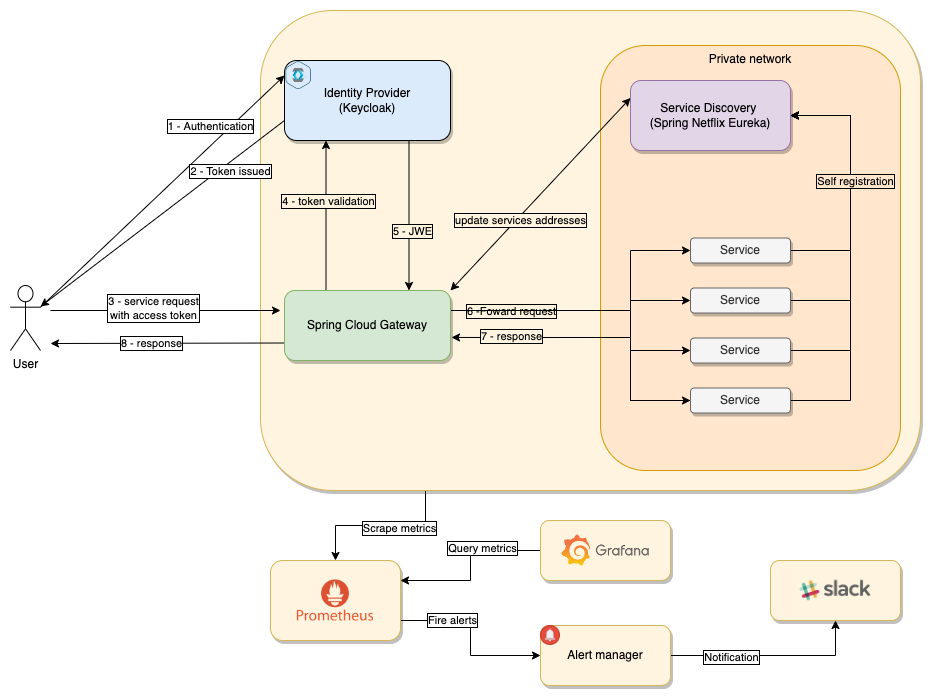
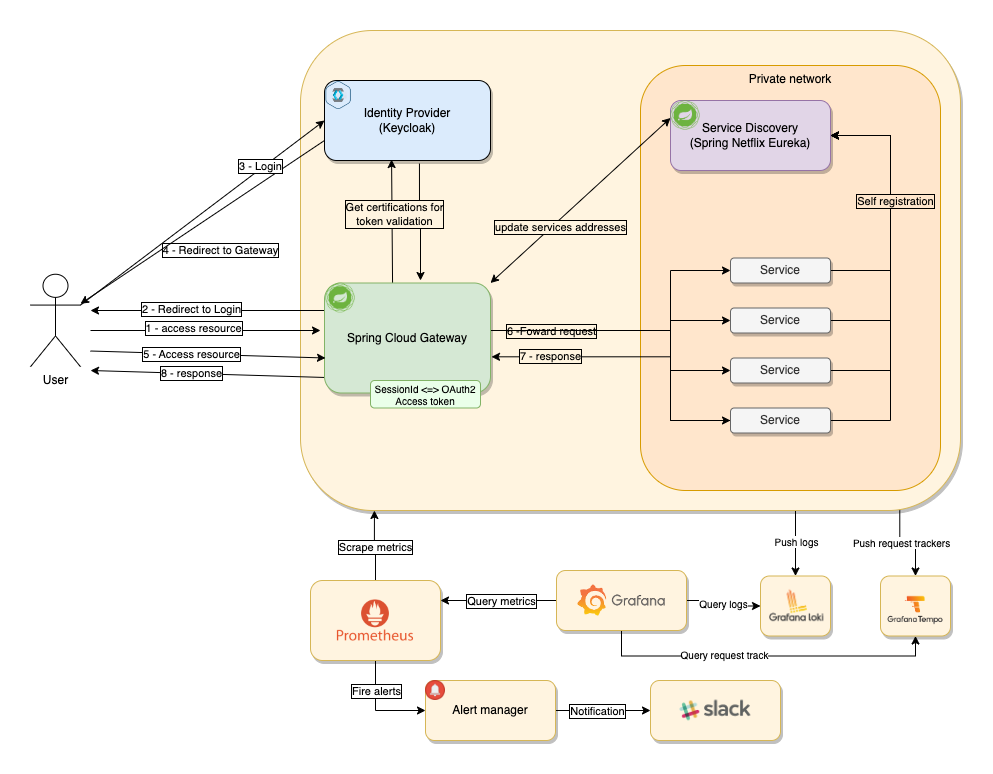
update profile description

diff --git a/profile/README.md b/profile/README.md
@@ -2,15 +2,15 @@
 
 :receipt: These repositories represent a microservices architecture based in a simple shopping/e-commerve api.
 
-Some techniques and tools used:
-* API Gateway
-* Service discovery
+Some techniques, frameworks and tools used:
+* API Gateway ([Spring Cloud Gateway](https://spring.io/projects/spring-cloud-gateway))
+* Service discovery ([Spring Netflix Eureka](https://spring.io/projects/spring-cloud-netflix))
 * Microservices 
-* Versioning
+* Versioning ([axion-plugin](https://github.com/allegro/axion-release-plugin))
 * Databases: PostgreSQL and Cassandra
-* Security layer - Keycloak with OpenID Connect
-* Observability - Prometheus, Alert Manager and Grafana dashboards
-* Github Actions to build and test any new code
+* Security layer - ([Keycloak](https://www.keycloak.org/) with OpenID Connect - integrated with [Spring Security Oauth2](https://spring.io/projects/spring-security-oauth))
+* Observability: [Prometheus](https://prometheus.io/), [Alert Manager](https://prometheus.io/docs/alerting/latest/alertmanager/#alertmanager), [Slack](https://slack.com/intl/en-gb), [Micrometer](https://micrometer.io/), [Grafana Tempo](https://grafana.com/oss/tempo/), [Grafana Loki](https://grafana.com/oss/loki/) and [Grafana](https://grafana.com/) dashboards
+* [Github Actions](https://github.com/features/actions) to build and test any new code
 * [SonarCloud](https://sonarcloud.io/organizations/shopping-api/projects) integration for Code quality
 
 ## General Architecture Diagram

diff --git a/README.md b/README.md
@@ -1,1 +1,5 @@
 # .github
+
+[![License: MIT](https://img.shields.io/badge/License-MIT-green.svg)](https://github.com/groot-mg/.github/blob/main/LICENSE)
+
+Readme defailt is defined [here](./profile/README.md).
